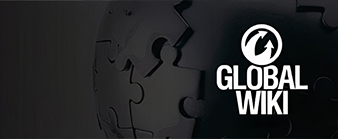
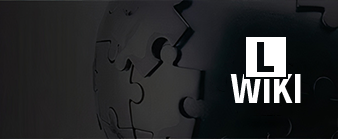
Доделаны некоторые статьи, ширина заднего фона в indev увеличена изменена текстура для ВИКИ,

Changed region(s): [[0.6213, 0.1727, 0.9172, 0.8345]]

diff --git a/_sass/indev.scss b/_sass/indev.scss
@@ -21,7 +21,7 @@
     content: "";
     position: absolute;
     height: 100%;
-    width: 100%;
+    width: 404%;
     top: -1px;
     background: rgba(0, 0, 0, 0.5);
     z-index: -1;

diff --git a/_posts/2022-09-28-sept-upd.md b/_posts/2022-09-28-sept-upd.md
@@ -9,8 +9,21 @@ image: "/assets/img/may_upd_127x.png"
 {% include yt-embed.html id="098CN0CU5VM" %}
 
 Танкисты!
+{: style="margin-top: 10px" }
 
 Для многих сентябрь самый страшный месяц, но обновление модов «WoT это Классика!!» может принести вам немного радости. Обновление для «Старого интерфейса боя» а также новый мод и возвращение одного старого ждут вас уже сейчас!
+
+> Обновление модов доступно для скачивания и уствновки в разделе [моды]({{ "/mods" | relative_url }}).
+>
+> Если у вас возникли трудности с установкой модов, то предлагаем вам небольшую инструкцию по их установке.
+1. Файлы .wotmod перемистите по данному пути:
+- C:\Games\Tanki\mods\Актуальная версия игры
+2. Файлы папки res_mods переместите по данному пути:
+- C:\Games\Tanki\res_mods\Актуальная версия игры
+> 
+> На этом все, начинается прекрасная весенняя пора и самое время немножечко окунуться в ностальгию.
+>
+> Также вы можете просмотреть [данное видео](https://www.youtube.com/watch?v=XLn-GLCK1Qk) если вам все еще не понятно как устанавливать моды.
 
 ## Что нового?
 
@@ -24,6 +37,8 @@ image: "/assets/img/may_upd_127x.png"
 
 Мы продолжаем улучшать мод на старый интерфейс, обновление 1.2 принесет вам не только измененные иконки типов боев, но и измененние экранов загрузки на те что были в патче 0.7.0, второе обновление таблицы игроков, старый отсчет до начала боя, старое положения союзников и противников а также старые картинки результаты боев.
 
+<br>
+
 ## Экраны загрузки
 
 картинги
@@ -36,19 +51,20 @@ image: "/assets/img/may_upd_127x.png"
 
 О главных изменениях в обновленной таблице игроков:
 
-Убраны иконки типа и уровня техники.
-Передвинуты иконки техники.
-Передвинуты ники игроков и названия техники.
-Передвинуты иконки взводов.
-Увеличин шрифт названия карты.
-Уменьшена иконка типа боя.
-Иконка типа боя изменена на старую.
-Названия танков стали больше.
+- Убраны иконки типа и уровня техники.
+- Передвинуты иконки техники.
+- Передвинуты ники игроков и названия техники.
+- Передвинуты иконки взводов.
+- Увеличин шрифт названия карты.
+- Уменьшена иконка типа боя.
+- Иконка типа боя изменена на старую.
+- Названия танков стали больше.
+
 Также были исправлены некоторые баги. В том числе и один баг разработчиков World of Tanks.
 
-Исправлена [ширина названий танков противника](http://forum.tanki.su/index.php?/topic/2107174-) (Автор темы - DrWeb7_1).
-Удалены лишние иконки взвода и техники.
-Тип боя выравнивается по центру.
+- Исправлена [ширина названий танков противника](http://forum.tanki.su/index.php?/topic/2107174-) (Автор темы - DrWeb7_1).
+- Удалены лишние иконки взвода и техники.
+- Тип боя выравнивается по центру.
 
 ## Отсчет до начала боя
 
@@ -67,6 +83,8 @@ image: "/assets/img/may_upd_127x.png"
 [![Что-то]({{ '/assets/img/placeholder.png' | relative_url}}){: .pic-left.orange width="250" }](https://example.com)
 
 В обновлении #310822 были добавлены звуки попаданий, боевая музыка и озвучка интерфейса. На этапе разработки находятся параметры звуков в снайперском/аркадном режимах. Но основа мода уже готова, остаются только мелкие правки. Всё это приближает нас к дню, когда звуковое окружение вплотную приблизиться к старому доброму идеалу.
+
+<br>
 
 {% include button.html url='https://www.youtube.com/watch?v=72PeZVkxDc0' text='Посмотреть основные изменения' %}
 
@@ -91,15 +109,17 @@ image: "/assets/img/may_upd_127x.png"
 ## Особая благодарность людям помогавшим с доработкой модов
 
 Leonardo_Shpah - за помощь в обновлении старой карусели техники.
+
 MrFishstars (EU) - за помощь в обновлении старой карусели техники и старого интерфейса боя.
+
 Hawg (EU) - за помощь в обновлении старого интерфейса боя.
+
+<br>
 
 Обратите внимание:
 
-тут должен быть li
-
-На этом все, начинается прекрасная весенняя пора и самое время немножечко окунуться в ностальгию.
-
-Не болейте и удачи на полях сражений!
+- Моды могут модерироваться несколько дней, это не зависит от нас.
+- Все моды вы ставите на свой страх и риск.
+- О обновлении модификаций будет сказано на Discord-сервере Д.Р.У.З.Ь.Я., на нашем Guilded-сервере и на форумах.
 
 ---

diff --git a/_posts/2021-05-09-day-of-victory.md b/_posts/2021-05-09-day-of-victory.md
@@ -10,16 +10,21 @@ image: "/assets/img/may_upd_127x.png"
 9 мая 1945 года навсегда останется в истории как день, в который нацистская Германия была повержена. Четыре года Великой Отечественной войны закончились в логове гитлеровского зверя, где войска Красной армии нанесли по «коричневой чуме» смертельный удар.
 
 В этот великий день команда разработчиков WoT это Классика! поздравляет игроков, их родных, друзей и близких с праздником Победы. Мы желаем вам здоровья, процветания и мирного неба над головой!
+
 Низкий поклон всем, кто в далёком 1941 году встал на защиту рубежей своей Родины, кто затем ценой своей крови и жизни остановил гитлеровскую военную машину под Москвой, кто спас от гибели Ленинград, несмотря на ужасы блокады. Мы помним и чтим тех, кто раздавил гитлеровцев под Сталинградом и выдержал натиск противника под Курском, кто в боях 1944 года вышвырнул врага с родной земли и в 1945 году победоносно завершил Великую Отечественную войну. Всем ветеранам войны мы желаем в этот день крепкого здоровья, благополучия и долголетия.
 
 С праздником!
 
 <br>
 
-Историческая справка.
+**Историческая справка.**
 
 16 апреля Красная армия начала решающее наступление на Берлин. Силы 1-го Белорусского, 2-го Белорусского и 1-го Украинского фронтов при поддержке Балтийского флота и Днепровской военной флотилии должны были выйти к немецкой столице с разных сторон, окружить и уничтожить гитлеровские части и тем самым поставить точку в долгом противостоянии Великой Отечественной войны.
+
 1-й Белорусский и 1-й Украинский фронты вступали в бой первыми. 9000 орудий и минометов обрушили на немецкие позиции шквал снарядов, в течении почти получаса громя линию обороны противника на участке шириной более 27 километров. Вслед за этим вспыхнули 134 зенитных прожектора, и войска двинулись в бой. Преодолевая отчаянное сопротивление гитлеровских войск на Зееловских высотах, 19 апреля силы РККА прорвали вражескую оборону, создали угрозу окружения 9-й немецкой армии и вынудили её командующего отдать приказ об отступлении. К 25 апреля Берлин был полностью окружен.
+
 В ночь с 30 апреля на 1 мая лейтенант Алексей Берест, сержант Михаил Егоров и младший сержант Мелитон Кантария водрузили над Рейхстагом Знамя Победы.
+
 Ночью 2-го мая немцы согласились вести переговоры о капитуляции на условиях советского командования. Утром того же дня генерал Вейдлинг, командовавший обороной Берлина, заявил, что гарнизон готов сдаться, и отдал соответствующий приказ. Отдельные части, не пожелавшие сдаваться, были рассеяны либо уничтожены советскими войсками.
+
 Акт о безоговорочной капитуляции Германии был подписан в Реймсе в 02:41 в ночь на 7 мая 1945 года. Однако 8 мая из-за процедурных вопросов подписание этого документа пришлось повторить. Акт вступил в силу 9 мая 1945 года.

diff --git a/_posts/2022-12-14-wotclassic_birthday.md b/_posts/2022-12-14-wotclassic_birthday.md
@@ -13,26 +13,29 @@ image: "/assets/img/may_upd_127x.png"
 
 Верьте или нет, но за такой промежуток времени и правда произошло много интересного. Сами в шоке.
 
-«WoT это Классика!» стартовал с мода на "Старый экран логина", и тогда он выглядел как-то так.
+- «WoT это Классика!» стартовал с мода на "Старый экран логина", и тогда он выглядел как-то так.
 
 картинка
 
-Да... Тогда все только начиналось. Но стоит отметить что тогда мод становился популярным. За короткий срок мод достиг 100 скачиваний на WGmods, затем 200 и так далее...
+ Да... Тогда все только начиналось. Но стоит отметить что тогда мод становился популярным. За короткий срок мод достиг 100 скачиваний на WGmods, затем 200 и так далее...
 
-Интересный факт: у нашего проекта было несколько вариантов названий, один из самых тупых примеров "Старая, добрая, Танковая Классика".
+- Интересный факт: у нашего проекта было несколько вариантов названий, один из самых тупых примеров "Старая, добрая, Танковая Классика".
 
-Раньше в модах было больше пасхалок, например в ресурсах "Старых иконок техники" были довольно... Странные танки.
+- Раньше в модах было больше пасхалок, например в ресурсах "Старых иконок техники" были довольно... Странные танки.
 
-За три года проект пережил смену авторов раз пять, если не больше. А все потому, что настоящий создатель не знал что делать и бросал все, а теперь он пишет эту новость паралелльно занимаясь обновлением.
+- За три года проект пережил смену авторов раз пять, если не больше. А все потому, что настоящий создатель не знал что делать и бросал все, а теперь он пишет эту новость паралелльно занимаясь обновлением.
 
-Ну и конечно, куда без скандалов? Три крупных скандала, ежегодное событие, хех.
+- Ну и конечно, куда без скандалов? Три крупных скандала, ежегодное событие, хех.
 
-В августе 2022 года Doctor Octopus взял у нас интервью, после чего проект стал гораздо известнее.
+- В августе 2022 года Doctor Octopus взял у нас интервью, после чего проект стал гораздо известнее.
 
-2021 год был самым продуктивным. В этом году мы познакомились со множеством людей, которые помогают нам по сей день, научились редактировать больше файлов и полностью обновили монтаж танковых видео, спасибо за это VLBRTN.
+- 2021 год был самым продуктивным. В этом году мы познакомились со множеством людей, которые помогают нам по сей день, научились редактировать больше файлов и полностью обновили монтаж танковых видео, спасибо за это VLBRTN.
 
 За три года было сделано многое, но предстоит сделать ещё больше. Команда разработчиков WoT это Классика! поздравляет всех игроков с третьей годовщиной всеми нами любимого проекта и желает успехов на всех фронтах!
 
+{% include yt-embed.html id="A_ACtljuofE" %}
+
 Спасибо, что остаётесь с нами. Дальше будет только лучше!
+{: style="margin-top: 10px" }
 
 По машинам!

diff --git a/_posts/2023-01-09-jan-upd.md b/_posts/2023-01-09-jan-upd.md
@@ -9,8 +9,21 @@ image: "/assets/img/may_upd_127x.png"
 {% include yt-embed.html id="lDlX-LD94Ac" %}
 
 Танкисты!
+{: style="margin-top: 10px" }
 
 Посленовогоднее обновление призвано вернуть в вас чувство праздника, которое в наше время мало у кого есть. Что же по изменениям? Сейчас все расскажем.
+
+> Обновление модов доступно для скачивания и уствновки в разделе [моды]({{ "/mods" | relative_url }}).
+>
+> Если у вас возникли трудности с установкой модов, то предлагаем вам небольшую инструкцию по их установке.
+1. Файлы .wotmod перемистите по данному пути:
+- C:\Games\Tanki\mods\Актуальная версия игры
+2. Файлы папки res_mods переместите по данному пути:
+- C:\Games\Tanki\res_mods\Актуальная версия игры
+> 
+> На этом все, начинается прекрасная весенняя пора и самое время немножечко окунуться в ностальгию.
+>
+> Также вы можете просмотреть [данное видео](https://www.youtube.com/watch?v=XLn-GLCK1Qk) если вам все еще не понятно как устанавливать моды.
 
 ## Что нового?
 
@@ -63,9 +76,11 @@ image: "/assets/img/may_upd_127x.png"
 
 Обратите внимание:
 
-тут должен быть li
+- Моды могут модерироваться несколько дней, это не зависит от нас.
+- Все моды вы ставите на свой страх и риск.
+- О обновлении модификаций будет сказано на Discord-сервере Д.Р.У.З.Ь.Я., на нашем Guilded-сервере и на форумах.
 
-На этом все, начинается прекрасная весенняя пора и самое время немножечко окунуться в ностальгию.
+На этом все, надеемся данное обновление порадует Вас своими нововведениями и ваши зимние вечера станут чуточку теплее.
 
 Не болейте и удачи на полях сражений!
 

diff --git a/_posts/2023-03-12-march-upd.md b/_posts/2023-03-12-march-upd.md
@@ -9,8 +9,21 @@ image: "/assets/img/may_upd_127x.png"
 {% include yt-embed.html id="rIDsIC6XoJU" %}
 
 Танкисты!
+{: style="margin-top: 10px" }
 
 Вот и закончилась холодная зима и началась прекрасная весна, идеальная пора для ностальгии, поэтому «WoT это Классика!» уже готов принести вам дополнительную порцию ностальгии, что же нас ждет?
+
+> Обновление модов доступно для скачивания и уствновки в разделе [моды]({{ "/mods" | relative_url }}).
+>
+> Если у вас возникли трудности с установкой модов, то предлагаем вам небольшую инструкцию по их установке.
+1. Файлы .wotmod перемистите по данному пути:
+- C:\Games\Tanki\mods\Актуальная версия игры
+2. Файлы папки res_mods переместите по данному пути:
+- C:\Games\Tanki\res_mods\Актуальная версия игры
+> 
+> На этом все, начинается прекрасная весенняя пора и самое время немножечко окунуться в ностальгию.
+>
+> Также вы можете просмотреть [данное видео](https://www.youtube.com/watch?v=XLn-GLCK1Qk) если вам все еще не понятно как устанавливать моды.
 
 ## Что нового?
 
@@ -64,7 +77,9 @@ image: "/assets/img/may_upd_127x.png"
 
 Обратите внимание:
 
-тут должен быть li
+- Моды могут модерироваться несколько дней, это не зависит от нас.
+- Все моды вы ставите на свой страх и риск.
+- О обновлении модификаций будет сказано на Discord-сервере Д.Р.У.З.Ь.Я., на нашем Guilded-сервере и на форумах.
 
 На этом все, начинается прекрасная весенняя пора и самое время немножечко окунуться в ностальгию.
 

diff --git a/_posts/2023-05-04-may-upd.md b/_posts/2023-05-04-may-upd.md
@@ -9,6 +9,7 @@ image: "/assets/img/may_upd_127x.png"
 {% include yt-embed.html id="vJIFTgOFcJ0" %}
 
 Танкисты!
+{: style="margin-top: 10px" }
 
 Весна в самом разгаре, и, чтобы сделать её еще жарче - выходит майское обновление модов серии «WoT это Классика!». Давайте же посмотрим на изменения!
 
@@ -19,9 +20,10 @@ image: "/assets/img/may_upd_127x.png"
 - C:\Games\Tanki\mods\Актуальная версия игры
 2. Файлы папки res_mods переместите по данному пути:
 - C:\Games\Tanki\res_mods\Актуальная версия игры
-На этом все, начинается прекрасная весенняя пора и самое время немножечко окунуться в ностальгию.
+> 
+> На этом все, начинается прекрасная весенняя пора и самое время немножечко окунуться в ностальгию.
 >
-> Также вы можете просмотреть данное видео если вам все еще не понятно как устанавливать моды.
+> Также вы можете просмотреть [данное видео](https://www.youtube.com/watch?v=XLn-GLCK1Qk) если вам все еще не понятно как устанавливать моды.
 
 ## Что нового?
 

diff --git a/_posts/2022-09-17-gold-time.md b/_posts/2022-09-17-gold-time.md
@@ -9,7 +9,7 @@ image: "/assets/img/may_upd_127x.png"
 
 Танкисты!
 
-С 18 сентября пройдет специальная танковая викторина на сервере Д.Р.У.З.Ь.Я.
+С **18 сентября** пройдет специальная танковая викторина на сервере Д.Р.У.З.Ь.Я.
 
 В данной викторине найдётся место как для новичков, так и для олдов. Будут интересные рубрики, а так же забавные и знакомые ведущие. Викторина поможет вам освежить память о былых временах или же узнать их подробнее.
 

diff --git a/_posts/2021-11-07-novembprtlupd.md b/_posts/2021-11-07-novembprtlupd.md
@@ -13,7 +13,7 @@ image: "/assets/img/may_upd_127x.png"
 
 ## Новый раздел
 
-[![Что-то]({{ '/assets/img/placeholder.png' | relative_url}}){: .pic-right.orange width="250" }](https://example.com)
+[![Что-то]({{ '/assets/img/placeholder.png' | relative_url}}){: .pic-left.orange width="250" }](/indev)
 
 Встречайте новый раздел "В разработке"! Здесь будут публиковаться новости модов которые находятся в разработке или обновления к ним. Также может пробегать информация по обновлению сайта. Следите за новостями!
 
